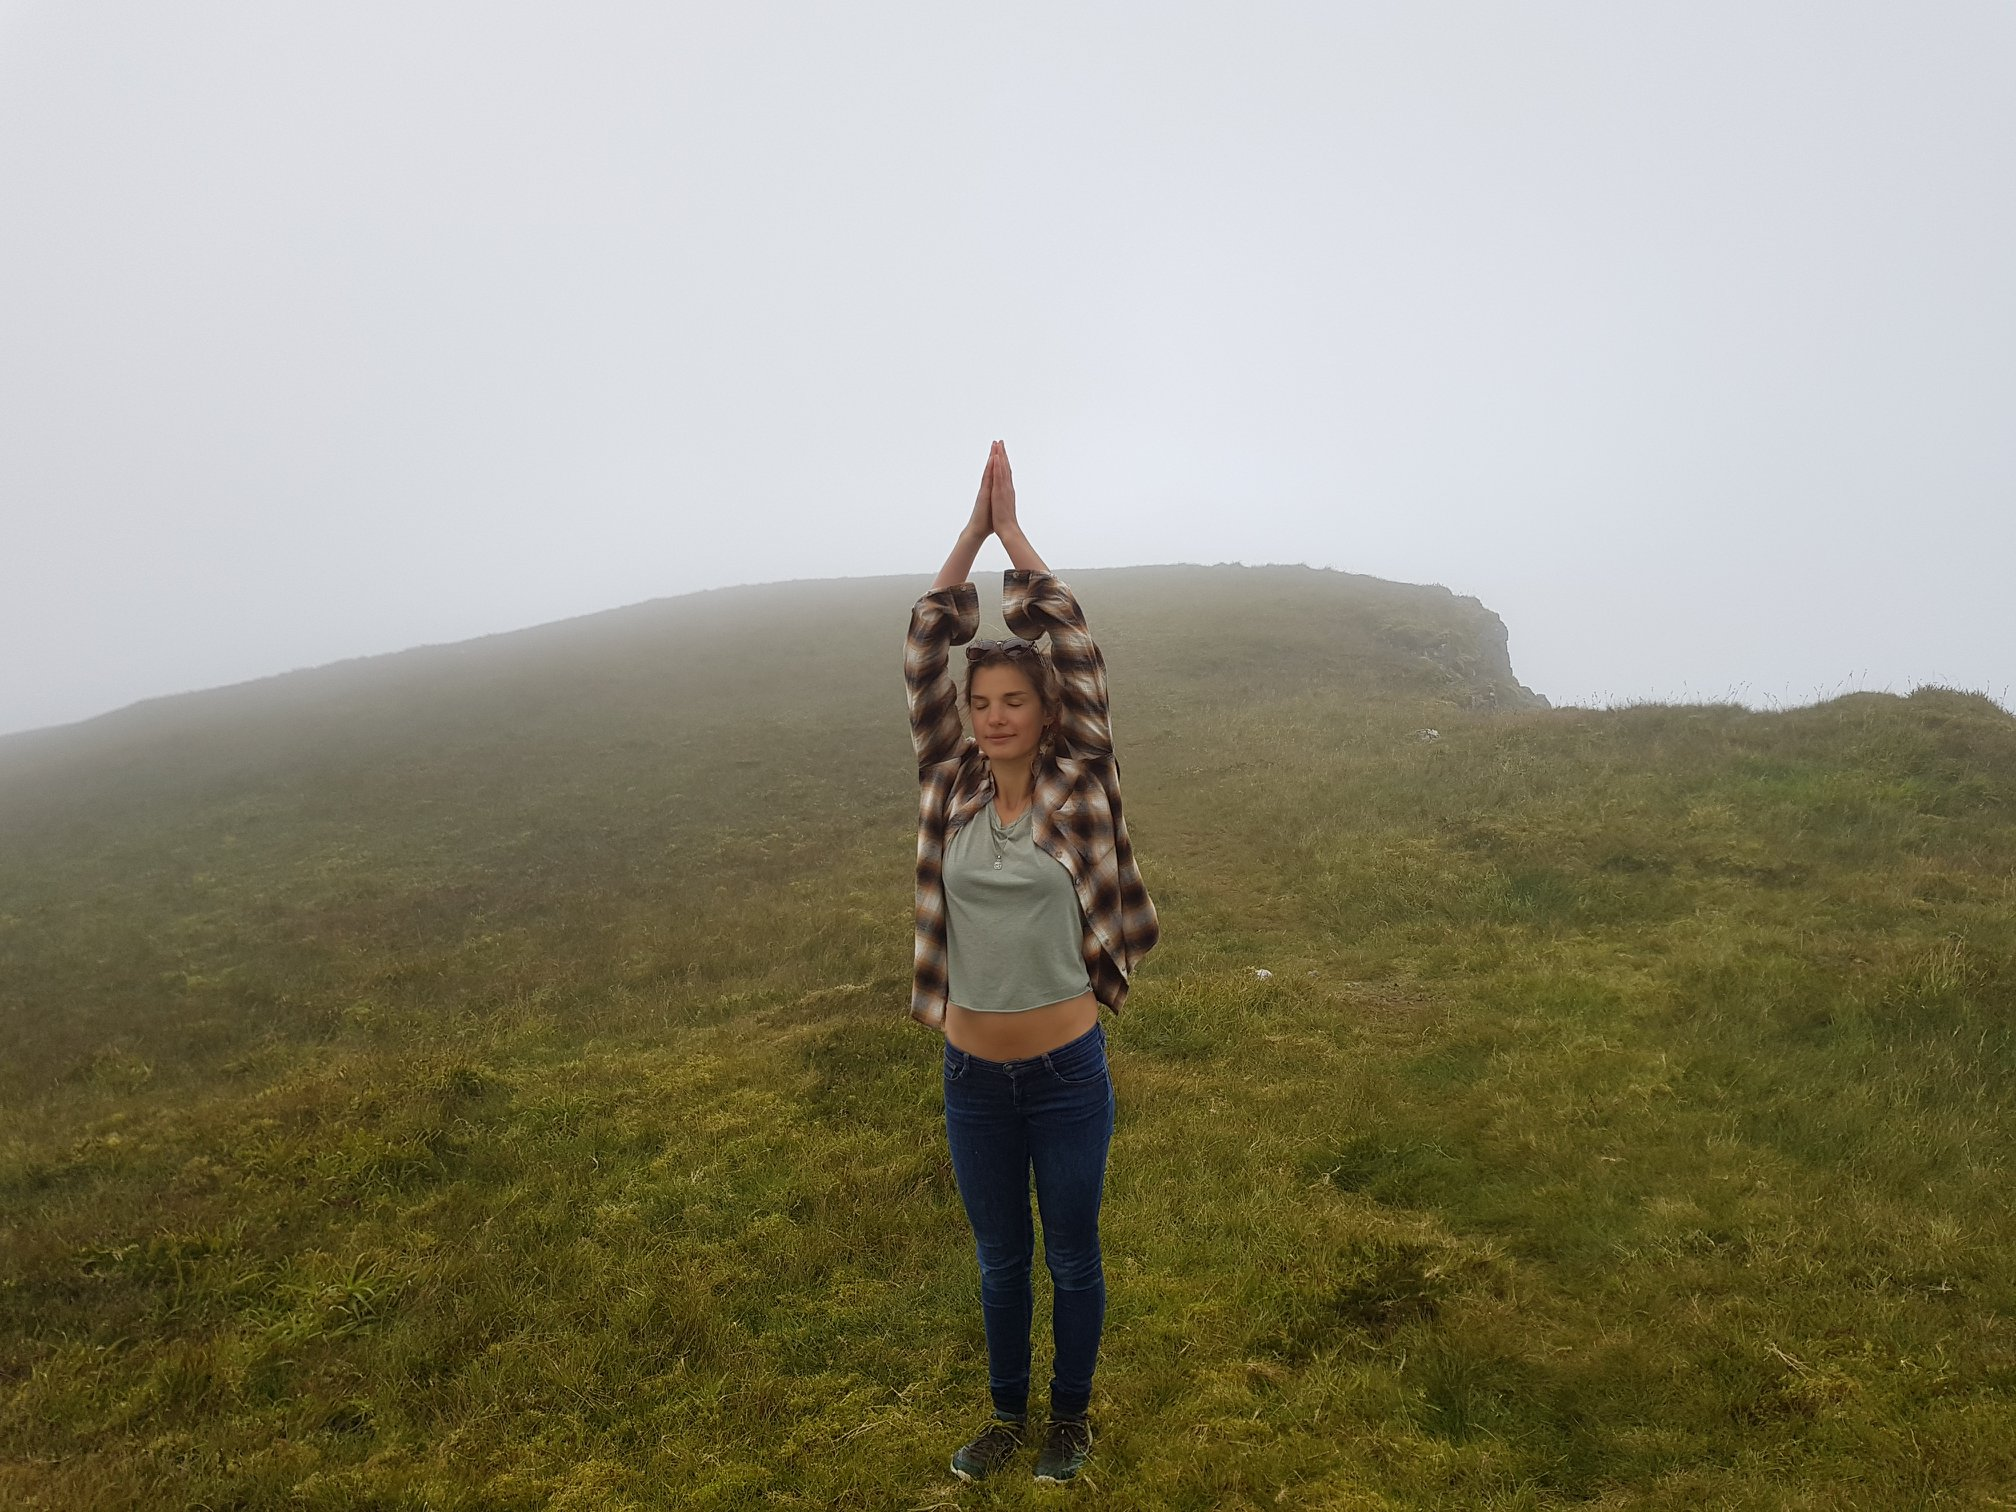
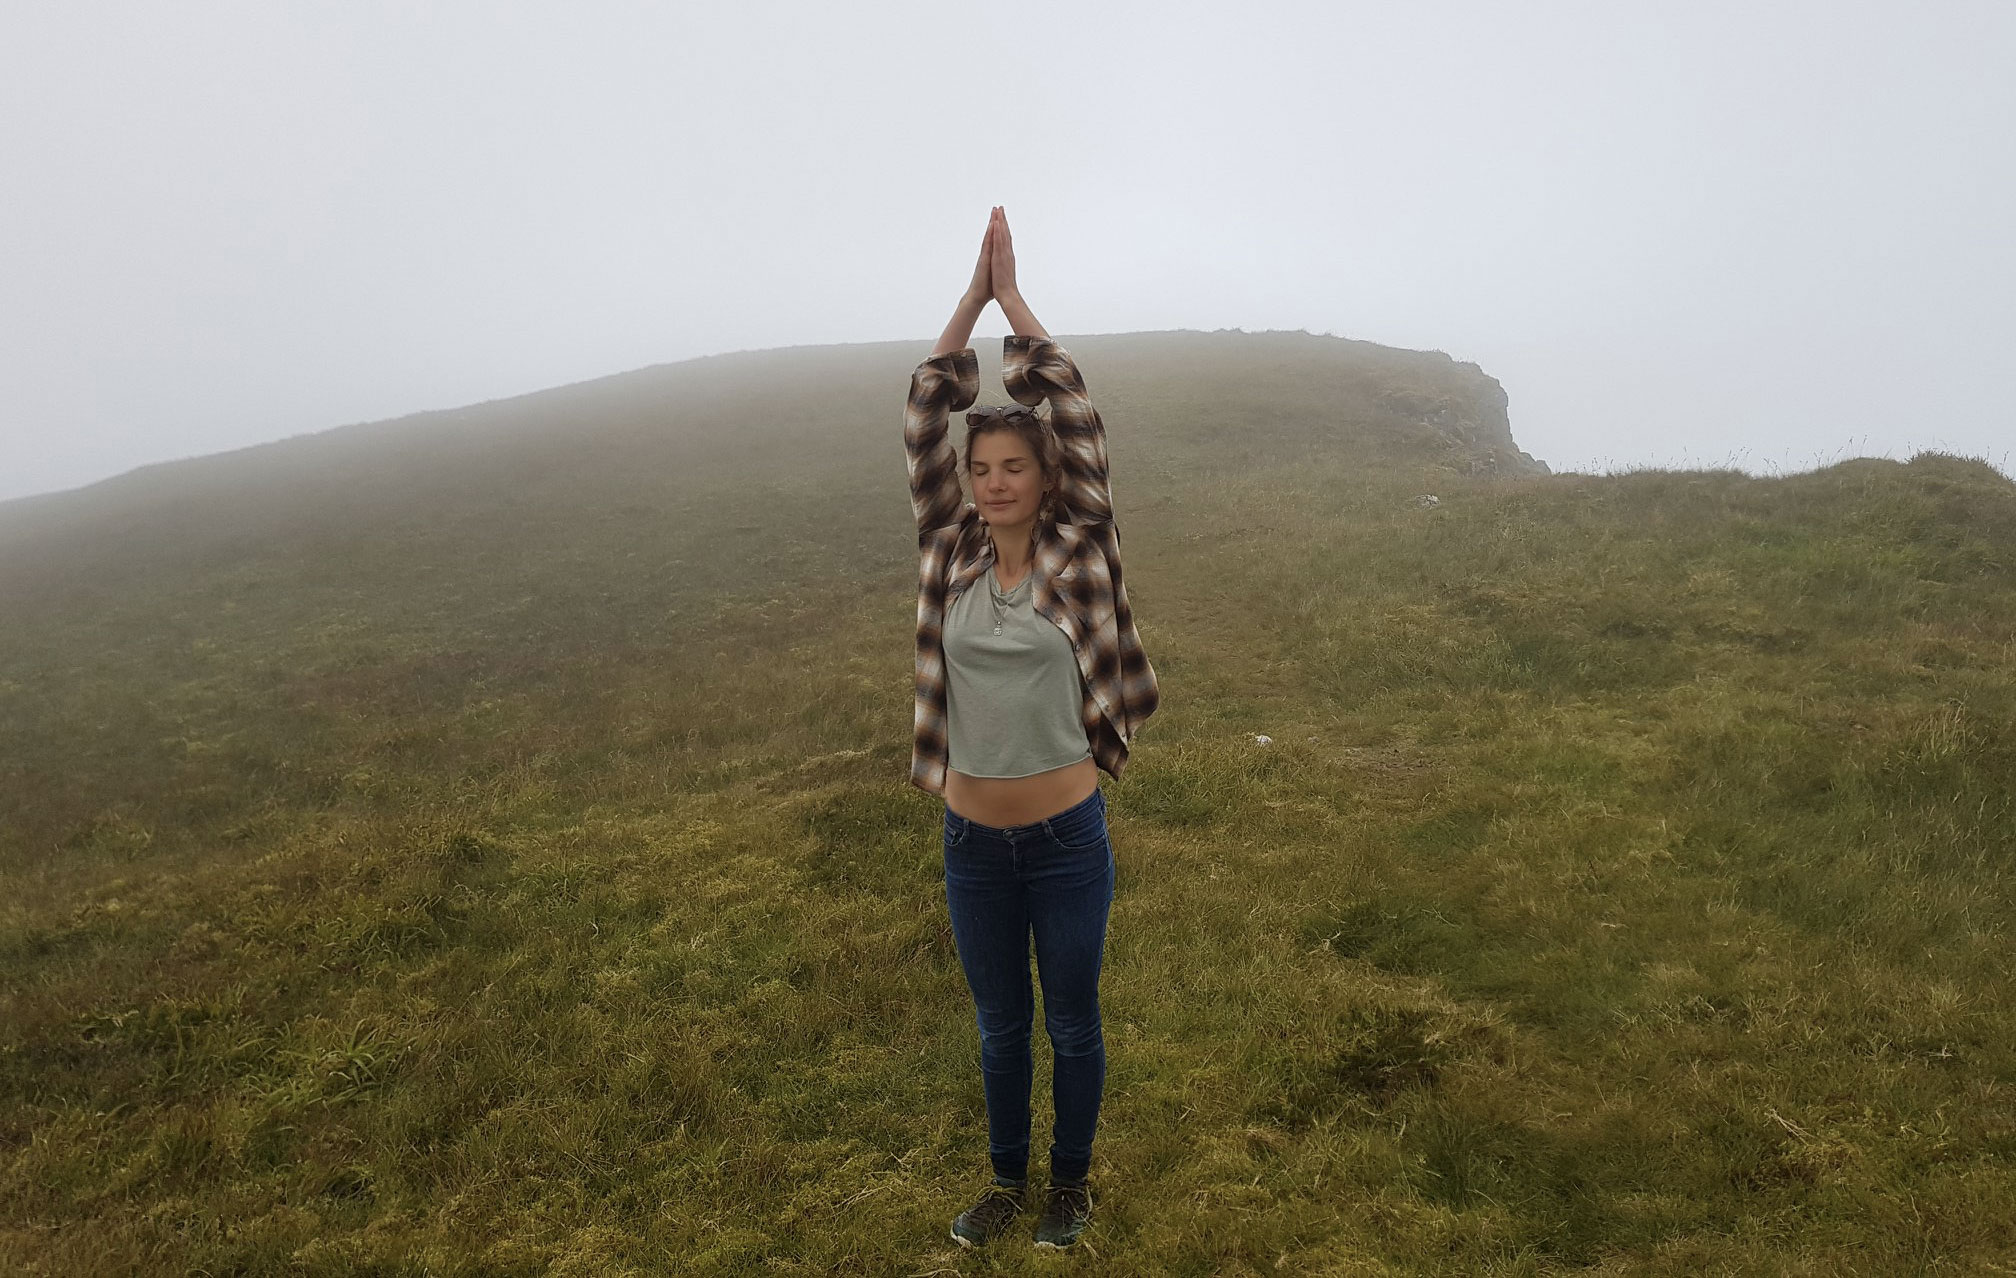
add progressive loading imgs

diff --git a/public/assets/css/styles.css b/public/assets/css/styles.css
@@ -110,14 +110,14 @@ a:hover {
 }
 
 .home {
-  background-image: url("../images/mountain.png");
+  background-image: url("../images/mountain.jpg");
   background-size: cover;
   min-height: 100vh;
 }
 
 @media screen and (max-width: 40em){
   .home {
-    background-image: url("../images/mountain-mobile.png")
+    background-image: url("../images/mountain-mobile.jpg")
   }
 }
 
